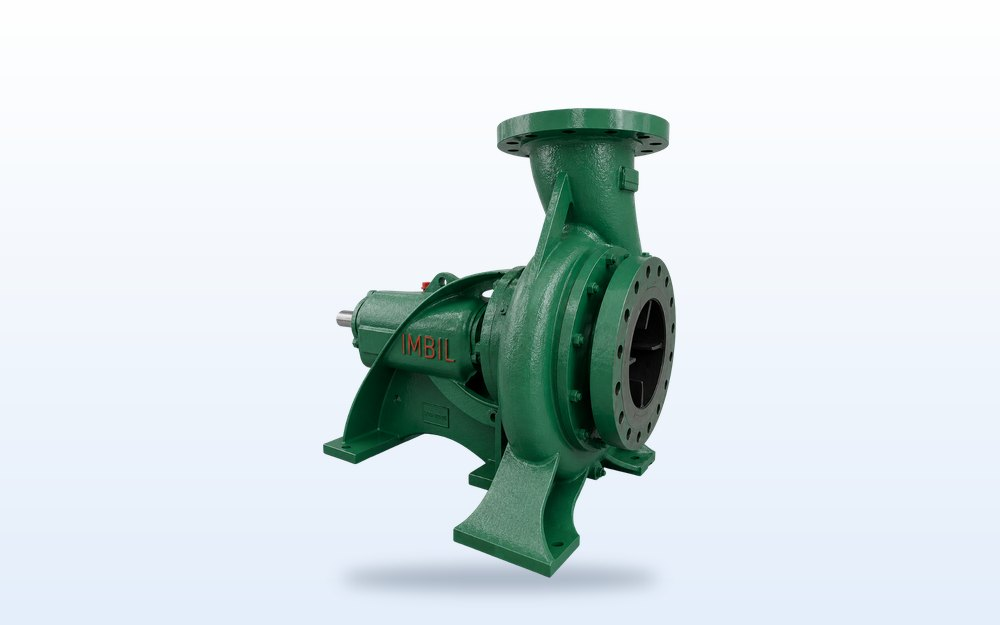
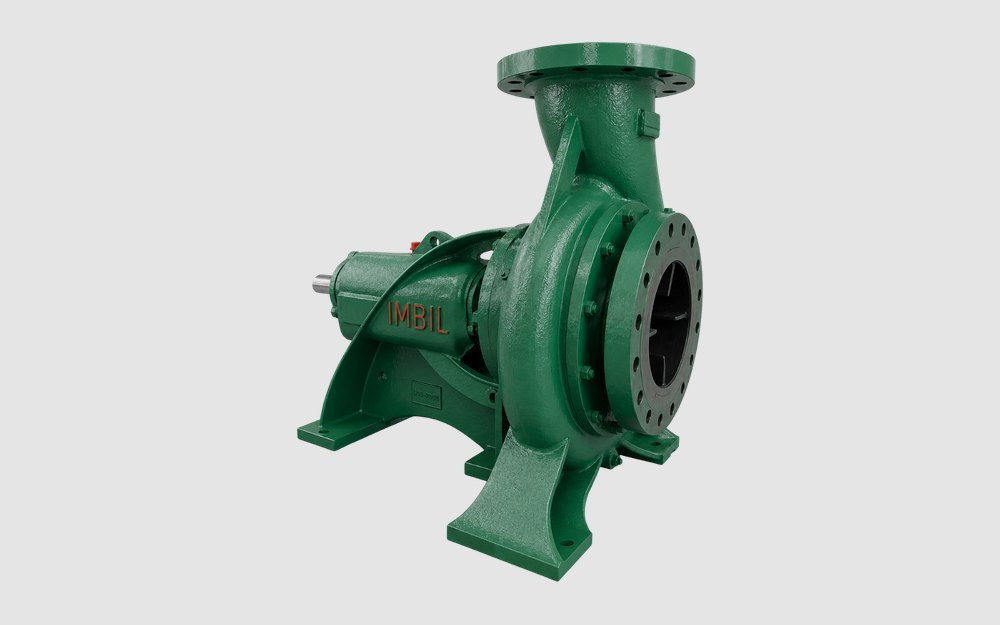
Fotos Imbil e Seko como nos prints: fundo liso, sem degradê nem sombra

diff --git a/index.html b/index.html
@@ -958,55 +958,55 @@ ul,ol{margin:0;padding:0;list-style:none}
         </div>
         <div class="products" style="--n:3">
           <article class="product reveal">
-            <div class="media loaded"><img src="assets/produtos/imbil-ini.jpg" alt="Bomba Imbil INI" loading="lazy" decoding="async"></div>
+            <div class="media loaded"><img src="assets/produtos/imbil-ini.jpg?v=2" alt="Bomba Imbil INI" loading="lazy" decoding="async"></div>
             <div class="product-b"><div class="p-head"><span class="p-ico" aria-hidden="true"><svg class="ico"><use href="#i-pump"/></svg></span><div class="p-tt"><small>Imbil</small><h4>INI</h4></div></div><p>Centrífuga horizontal de estágio único para uso geral na indústria e em obras. Back-pull-out: manutenção sem desconectar a tubulação.</p>
               <ul class="specs"><li><span>Vazão</span>até 1.300 m³/h</li><li><span>Pressão</span>até 230 m.c.a.</li></ul>
               <button type="button" class="q-btn btn-slave-whats" data-produto="Imbil — INI" data-cta="vitrine">Solicitar orçamento <svg class="ico"><use href="#i-arrow"/></svg></button></div>
           </article>
           <article class="product reveal d1">
-            <div class="media loaded"><img src="assets/produtos/imbil-itap-b.jpg" alt="Bomba Imbil ITAP-B (ITAP Bloc)" loading="lazy" decoding="async"></div>
+            <div class="media loaded"><img src="assets/produtos/imbil-itap-b.jpg?v=2" alt="Bomba Imbil ITAP-B (ITAP Bloc)" loading="lazy" decoding="async"></div>
             <div class="product-b"><div class="p-head"><span class="p-ico" aria-hidden="true"><svg class="ico"><use href="#i-pump"/></svg></span><div class="p-tt"><small>Imbil</small><h4>ITAP-B (ITAP Bloc)</h4></div></div><p>Centrífuga monobloco para líquidos limpos ou turvos em indústria, prédios, agricultura e irrigação.</p>
               <ul class="specs"><li><span>Vazão</span>até 2.200 m³/h</li><li><span>Pressão</span>até 120 m</li></ul>
               <button type="button" class="q-btn btn-slave-whats" data-produto="Imbil — ITAP-B" data-cta="vitrine">Solicitar orçamento <svg class="ico"><use href="#i-arrow"/></svg></button></div>
           </article>
           <article class="product reveal d2">
-            <div class="media loaded"><img src="assets/produtos/imbil-itap.jpg" alt="Bomba Imbil ITAP" loading="lazy" decoding="async"></div>
+            <div class="media loaded"><img src="assets/produtos/imbil-itap.jpg?v=2" alt="Bomba Imbil ITAP" loading="lazy" decoding="async"></div>
             <div class="product-b"><div class="p-head"><span class="p-ico" aria-hidden="true"><svg class="ico"><use href="#i-pump"/></svg></span><div class="p-tt"><small>Imbil</small><h4>ITAP</h4></div></div><p>Centrífuga horizontal de estágio único, robusta e versátil, para diferentes condições hidráulicas.</p>
               <ul class="specs"><li><span>Vazão</span>até 2.200 m³/h</li><li><span>Pressão</span>até 140 m</li></ul>
               <button type="button" class="q-btn btn-slave-whats" data-produto="Imbil — ITAP" data-cta="vitrine">Solicitar orçamento <svg class="ico"><use href="#i-arrow"/></svg></button></div>
           </article>
           <article class="product reveal">
-            <div class="media loaded"><img src="assets/produtos/imbil-ink.jpg" alt="Bomba Imbil INK" loading="lazy" decoding="async"></div>
+            <div class="media loaded"><img src="assets/produtos/imbil-ink.jpg?v=2" alt="Bomba Imbil INK" loading="lazy" decoding="async"></div>
             <div class="product-b"><div class="p-head"><span class="p-ico" aria-hidden="true"><svg class="ico"><use href="#i-flask"/></svg></span><div class="p-tt"><small>Imbil</small><h4>INK</h4></div></div><p>Centrífuga de processo para química, petroquímica e refino, conforme ISO 2858 e ISO 5199.</p>
               <ul class="specs"><li><span>Vazão</span>até 1.600 m³/h</li><li><span>Pressão</span>até 130 m</li></ul>
               <button type="button" class="q-btn btn-slave-whats" data-produto="Imbil — INK" data-cta="vitrine">Solicitar orçamento <svg class="ico"><use href="#i-arrow"/></svg></button></div>
           </article>
           <article class="product reveal d1">
-            <div class="media loaded"><img src="assets/produtos/imbil-bp.jpg" alt="Bomba Imbil BP (sucção dupla)" loading="lazy" decoding="async"></div>
+            <div class="media loaded"><img src="assets/produtos/imbil-bp.jpg?v=2" alt="Bomba Imbil BP (sucção dupla)" loading="lazy" decoding="async"></div>
             <div class="product-b"><div class="p-head"><span class="p-ico" aria-hidden="true"><svg class="ico"><use href="#i-water"/></svg></span><div class="p-tt"><small>Imbil</small><h4>BP (sucção dupla)</h4></div></div><p>Carcaça bipartida axialmente para altas vazões, com manutenção sem desconectar as tubulações principais.</p>
               <ul class="specs"><li><span>Vazão</span>até 20.000 m³/h</li><li><span>Pressão</span>até 280 m</li></ul>
               <button type="button" class="q-btn btn-slave-whats" data-produto="Imbil — BP" data-cta="vitrine">Solicitar orçamento <svg class="ico"><use href="#i-arrow"/></svg></button></div>
           </article>
           <article class="product reveal d2">
-            <div class="media loaded"><img src="assets/produtos/imbil-e-ep.jpg" alt="Bomba Imbil E/EP" loading="lazy" decoding="async"></div>
+            <div class="media loaded"><img src="assets/produtos/imbil-e-ep.jpg?v=2" alt="Bomba Imbil E/EP" loading="lazy" decoding="async"></div>
             <div class="product-b"><div class="p-head"><span class="p-ico" aria-hidden="true"><svg class="ico"><use href="#i-air"/></svg></span><div class="p-tt"><small>Imbil</small><h4>E/EP</h4></div></div><p>Centrífuga re-autoescorvante para sucção negativa ou entrada frequente de ar. Escorva só na primeira partida.</p>
               <ul class="specs"><li><span>Vazão</span>até 1.300 m³/h</li><li><span>Pressão</span>até 62 m</li></ul>
               <button type="button" class="q-btn btn-slave-whats" data-produto="Imbil — E/EP" data-cta="vitrine">Solicitar orçamento <svg class="ico"><use href="#i-arrow"/></svg></button></div>
           </article>
           <article class="product reveal">
-            <div class="media loaded"><img src="assets/produtos/imbil-nci.jpg" alt="Bomba Imbil NCI (non-clog)" loading="lazy" decoding="async"></div>
+            <div class="media loaded"><img src="assets/produtos/imbil-nci.jpg?v=2" alt="Bomba Imbil NCI (non-clog)" loading="lazy" decoding="async"></div>
             <div class="product-b"><div class="p-head"><span class="p-ico" aria-hidden="true"><svg class="ico"><use href="#i-pipe"/></svg></span><div class="p-tt"><small>Imbil</small><h4>NCI (non-clog)</h4></div></div><p>Para líquidos com sólidos em suspensão e aplicações severas, com menor risco de obstrução.</p>
               <ul class="specs"><li><span>Vazão</span>até 12.600 m³/h</li><li><span>Pressão</span>até 35 m</li></ul>
               <button type="button" class="q-btn btn-slave-whats" data-produto="Imbil — NCI" data-cta="vitrine">Solicitar orçamento <svg class="ico"><use href="#i-arrow"/></svg></button></div>
           </article>
           <article class="product reveal d1">
-            <div class="media loaded"><img src="assets/produtos/imbil-is.jpg" alt="Bomba Imbil IS (polpa)" loading="lazy" decoding="async"></div>
+            <div class="media loaded"><img src="assets/produtos/imbil-is.jpg?v=2" alt="Bomba Imbil IS (polpa)" loading="lazy" decoding="async"></div>
             <div class="product-b"><div class="p-head"><span class="p-ico" aria-hidden="true"><svg class="ico"><use href="#i-mine"/></svg></span><div class="p-tt"><small>Imbil</small><h4>IS (polpa)</h4></div></div><p>Para polpa com areia, cascalho, lama e minérios, com construção resistente a impacto e abrasão.</p>
               <ul class="specs"><li><span>Vazão</span>até 4.500 m³/h</li><li><span>Pressão</span>até 110 m</li></ul>
               <button type="button" class="q-btn btn-slave-whats" data-produto="Imbil — IS" data-cta="vitrine">Solicitar orçamento <svg class="ico"><use href="#i-arrow"/></svg></button></div>
           </article>
           <article class="product reveal d2">
-            <div class="media loaded"><img src="assets/produtos/imbil-bvi.jpg" alt="Bomba Imbil BVI (vácuo)" loading="lazy" decoding="async"></div>
+            <div class="media loaded"><img src="assets/produtos/imbil-bvi.jpg?v=2" alt="Bomba Imbil BVI (vácuo)" loading="lazy" decoding="async"></div>
             <div class="product-b"><div class="p-head"><span class="p-ico" aria-hidden="true"><svg class="ico"><use href="#i-air"/></svg></span><div class="p-tt"><small>Imbil</small><h4>BVI (vácuo)</h4></div></div><p>Bomba de vácuo de anel líquido para gerar vácuo ou comprimir gases úmidos, vapores e contaminantes.</p>
               <ul class="specs"><li><span>Capacidade</span>até 13.240 ACFM</li><li><span>Vácuo</span>até 27" Hg</li></ul>
               <button type="button" class="q-btn btn-slave-whats" data-produto="Imbil — BVI" data-cta="vitrine">Solicitar orçamento <svg class="ico"><use href="#i-arrow"/></svg></button></div>
@@ -1032,7 +1032,7 @@ ul,ol{margin:0;padding:0;list-style:none}
         </div>
         <div class="products" style="--n:3">
           <article class="product reveal">
-            <div class="media loaded"><img src="assets/produtos/seko-bombas-dosadoras.jpg" alt="Bomba dosadora Seko" loading="lazy" decoding="async"></div>
+            <div class="media loaded"><img src="assets/produtos/seko-bombas-dosadoras.jpg?v=2" alt="Bomba dosadora Seko" loading="lazy" decoding="async"></div>
             <div class="product-b"><div class="p-head"><span class="p-ico" aria-hidden="true"><svg class="ico"><use href="#i-tune"/></svg></span><div class="p-tt"><small>Seko</small><h4>Bombas Dosadoras</h4></div></div><p>Dosagem controlada de produtos químicos, com ajuste da vazão no painel da bomba.</p>
               <button type="button" class="q-btn btn-slave-whats" data-produto="Seko — Bomba Dosadora" data-cta="vitrine">Solicitar orçamento <svg class="ico"><use href="#i-arrow"/></svg></button></div>
           </article>
